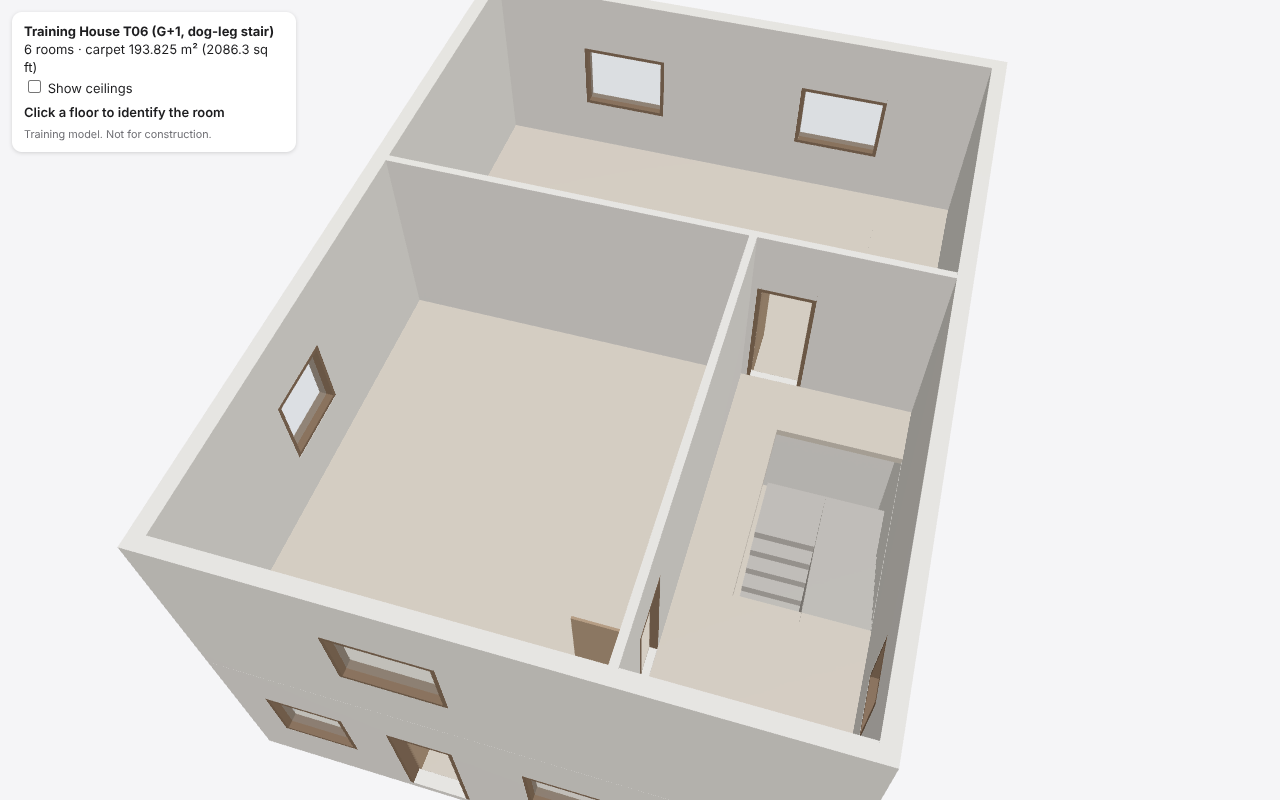
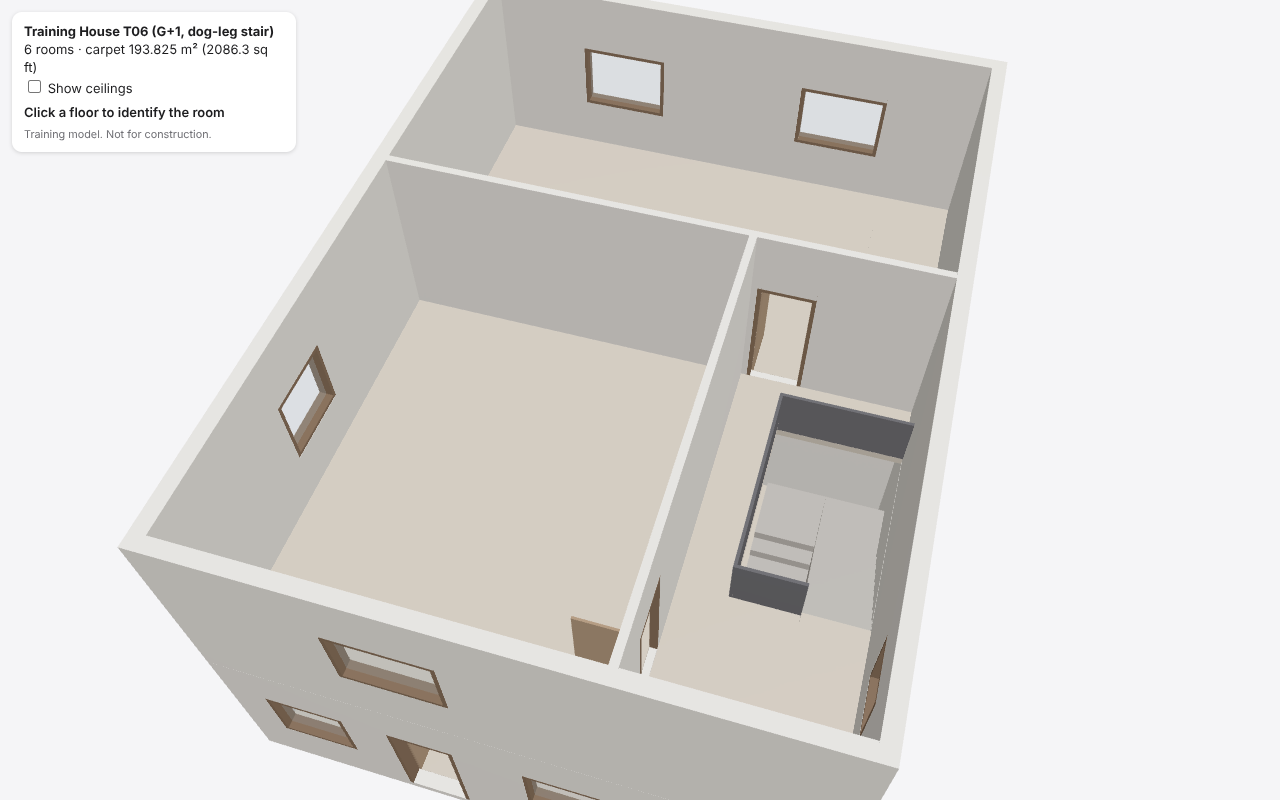
Guard rails around stair openings; walk tests check each guarded edge
A 50 mm x 0.90 m rail (training values) closes every edge of a stair
opening in the upper floor, except where a wall closes it and across the
top riser. Walk tests add a line at 0.5 m across each guarded edge
(T05 30/30, T06 34/34); removing the rail fails all of them. M_Guard in
GLB and FBX. 84 tests.

Claude-Session: https://claude.ai/code/session_01BXg1nWSkXAdbFx49JcxH2B

Changed region(s): [[0.5938, 0.4688, 0.7188, 0.5938], [0.5625, 0.5938, 0.6562, 0.7812]]

diff --git a/plan3d/walktests.py b/plan3d/walktests.py
@@ -11,6 +11,7 @@ points at the import, not at the tests.
 from __future__ import annotations
 
 import numpy as np
+from shapely.geometry import Point
 
 from . import stairs
 from .mesh3d import Part
@@ -19,6 +20,7 @@ from .model import Plan
 PROBE_M = 0.4            # how far into each room a probe starts and ends
 DOOR_PROBE_Z = 1.0       # chest height above finished floor
 WALL_PROBE_Z = 1.5
+GUARD_PROBE_Z = 0.5      # a person walking into the rail around a stair opening
 WALL_END_CLEAR = 0.3     # stay away from junctions
 OPENING_CLEAR = 0.15     # and from opening reveals
 CLEAR_HEIGHTS = (0.75, 1.0, 1.25)   # above floor, where shoulders and hips pass
@@ -58,6 +60,19 @@ def generate(plan: Plan, layouts: dict) -> list[dict]:
     for sg in sorted(stairs.build(plan).values(), key=lambda s: s.id):
         if sg.level not in layouts or sg.to_level not in layouts:
             continue
+        guard = stairs.guard_region(sg, layouts[sg.to_level])
+        ring = list(sg.footprint.exterior.coords)
+        for j, (p, q) in enumerate(zip(ring, ring[1:])):          # one line across each guarded edge
+            p, q = np.asarray(p), np.asarray(q)
+            m, d = (p + q) / 2, (q - p) / np.linalg.norm(q - p)
+            n = np.array([d[1], -d[0]])
+            if sg.footprint.contains(Point(m + n * 0.01)):
+                n = -n                                     # n points out of the opening
+            if guard.contains(Point(m + n * stairs.GUARD_THICKNESS / 2)):
+                z = sg.ffl_top + GUARD_PROBE_Z
+                tests.append({"name": f"guard:{sg.id}.{j + 1}", "kind": "guard",
+                              "start": [*(m + n * (stairs.GUARD_THICKNESS + 0.05)), z],
+                              "end": [*(m - n * 0.3), z], "expect_hit": True})
         flights = sg.flights
         for i, f in enumerate(flights):                # one line per flight, chest height above the steps
             z0 = sg.ffl + sg.riser * f.first

diff --git a/plan3d/stairs.py b/plan3d/stairs.py
@@ -25,6 +25,8 @@ APPROACH = 0.3           # where a person stands before the first riser / after 
 HEADROOM = 2.0           # clear height above every tread (Q22)
 MAX_RISER, MIN_GOING = 0.19, 0.25                 # training thresholds, not a code check
 BLONDEL = (0.55, 0.70)   # comfortable 2 x riser + going, metres
+GUARD_HEIGHT = 0.9       # guard rail around stair openings (training value, not a code check)
+GUARD_THICKNESS = 0.05
 
 
 @dataclass
@@ -206,3 +208,16 @@ def landing_depth(sg: StairGeom, region) -> float:
     parts = [g for g in getattr(inside, "geoms", [inside]) if g.length > 0]
     first = min(parts, key=lambda g: Point(sg.top).distance(g), default=None)
     return first.length if first is not None and Point(sg.top).distance(first) < 1e-6 else 0.0
+
+
+def guard_region(sg: StairGeom, up_layout) -> Polygon:
+    """Plan area of the guard rail around the stair's opening in the upper
+    floor: a GUARD_THICKNESS band just outside every edge of the opening,
+    except where a wall already closes it and across the top riser, where
+    people step on and off."""
+    band = sg.footprint.buffer(GUARD_THICKNESS, join_style="mitre").difference(sg.footprint)
+    a = np.array([-sg.top_u[1], sg.top_u[0]]) * sg.width / 2
+    t, out = sg.top, sg.top_u * (GUARD_THICKNESS * 2)
+    arrival = Polygon([t - a, t + a, t + a + out, t - a + out])
+    floor = unary_union(list(up_layout.room_regions.values()))
+    return band.difference(arrival).difference(up_layout.footprint).intersection(floor)

diff --git a/tests/test_stairs.py b/tests/test_stairs.py
@@ -169,3 +169,21 @@ def test_dogleg_needs_a_turn(t06):
     from plan3d.model import schema_errors
     del item(t06, "stairs", "S01")["turn"]
     assert any("turn" in e for e in schema_errors(t06))
+
+
+def test_stair_opening_is_guarded_except_where_people_step_off(t06):
+    from plan3d import walktests
+    plan = Plan(t06)
+    layouts = {lid: plan2d.build_layout(plan, lid) for lid in plan.levels}
+    parts = build_parts(plan, layouts)
+    guard = next(p for p in parts if p.name == "L01_GUARD_S01")
+    assert guard.solid.is_watertight
+    assert guard.solid.bounds[:, 2] == pytest.approx([3.15, 3.15 + stairs.GUARD_HEIGHT])
+    scene = walktests.Scene(parts)
+    z = 3.15 + 0.5
+    assert scene.first_hit_at([8.27, 2.7, z], [8.27, 3.3, z])[0] is None          # top of the second flight: open
+    assert scene.first_hit_at([7.27, 2.7, z], [7.27, 3.3, z])[0] == "L01_GUARD_S01"  # beside it: guarded
+    probes = [t for t in walktests.generate(plan, layouts) if t["kind"] == "guard"]
+    assert probes and all(r["ok"] for r in walktests.run(probes, parts))
+    unguarded = [p for p in parts if p.role != "guard"]
+    assert not any(r["ok"] for r in walktests.run(probes, unguarded))              # each probe needs the rail

diff --git a/plan3d/mesh3d.py b/plan3d/mesh3d.py
@@ -49,6 +49,7 @@ MATERIALS = {
     "glass":   {"baseColorFactor": [0.70, 0.82, 0.90, 0.30], "roughnessFactor": 0.05,
                 "alphaMode": "BLEND"},
     "stair":   {"baseColorFactor": [0.62, 0.60, 0.57, 1.0], "roughnessFactor": 0.7},
+    "guard":   {"baseColorFactor": [0.20, 0.20, 0.22, 1.0], "roughnessFactor": 0.4},
 }
 
 
@@ -147,6 +148,10 @@ def build_parts(plan: Plan, layouts: dict[str, LevelLayout]) -> list[Part]:
             if sg.level == level_id:
                 for suffix, lane in stairs.solids(sg):
                     parts.append(Part(f"{level_id}_STAIR_{sg.id}{suffix}", "stair", level_id, _to_trimesh(lane), sg.id))
+            if sg.to_level == level_id:
+                guard = _prism(stairs.guard_region(sg, lay), ffl, ffl + stairs.GUARD_HEIGHT)
+                if not guard.is_empty():
+                    parts.append(Part(f"{level_id}_GUARD_{sg.id}", "guard", level_id, _to_trimesh(guard), sg.id))
 
         details = next(iter(plan.details.values()), None)
         fw = details["frame_width"] if details else 0.0

diff --git a/plan3d/export_fbx.py b/plan3d/export_fbx.py
@@ -27,7 +27,8 @@ from .units import sqm_to_sqft
 UNREAL_DIR = Path(__file__).resolve().parents[1] / "unreal"
 UNREAL_SCRIPTS = ("import_plan3d.py", "walk_test.py")
 MATERIAL_NAMES = {"wall": "M_Wall", "floor": "M_Floor", "ceiling": "M_Ceiling", "glass": "M_Glass",
-                  "frame": "M_Frame", "door": "M_Door", "stair": "M_Stair"}
+                  "frame": "M_Frame", "door": "M_Door", "stair": "M_Stair",
+                  "guard": "M_Guard"}
 
 
 def bpy_available() -> bool:

diff --git a/docs/QUALITY_REPORTS.md b/docs/QUALITY_REPORTS.md
@@ -302,7 +302,7 @@ Carpet area 105.862 m² (1,139.5 sq ft) on a 120 m² built-up footprint.
 | FBX (Q17) | Pass, cm, `M_Stair` |
 | Single-level plans T01–T04 | GLB byte-identical to before the change |
 | Mutation tests | Level not on the one below → FAIL; flight into a wall → FAIL; landing into a wall → reported; 210 mm risers → WARN; stair removed → upper rooms unreachable (Q09 FAIL); a beam over the flight → Q22 FAIL |
-| Tests | 83 pass |
+| Tests | 84 pass |
 
 ### Dog-leg stairs (T06)
 | Check | Result |
@@ -311,6 +311,15 @@ Carpet area 105.862 m² (1,139.5 sq ft) on a 120 m² built-up footprint.
 | Geometry | Second flight starts at (8.27, 5.00) and ends beside the first flight's foot at (8.27, 3.00); footprint 6.000 m²; each lane watertight with the exact stepped volume plus half the landing |
 | Walk tests | 30/30, including a line up each flight |
 | Mutation tests | Second flight turned the wrong way → the opening cuts the lobby wall (Q21 FAIL); 0.8 m half landing → WARN; missing `turn` → schema error |
+
+### Guard rails around stair openings
+| Check | Result |
+|---|---|
+| Rail | 50 mm × 0.90 m (training values) just outside every edge of a stair opening in the upper floor, except where a wall closes it and across the top riser |
+| T06 | Rail on three sides; a line at 0.5 m across the second flight's top is clear, beside it hits `L01_GUARD_S01`. Walk tests 34/34 (4 guard lines) |
+| T05 | Walk tests 30/30 (2 guard lines) |
+| Mutation | Remove the rail → every guard line fails |
+| Not covered | No balustrade along the open side of a flight, or between dog-leg flights without a well |
 
 ### Defects found and fixed during development
 - Unioning the two dog-leg flights into one solid left 8 sliver faces and a

diff --git a/docs/TASK_TRACKER.md b/docs/TASK_TRACKER.md
@@ -18,7 +18,7 @@ verified without spending money.
 | Pri | ID | Task | Lead → Reviewer | AI / Human | Status |
 |---|---|---|---|---|---|
 | 0 | T-012 | **First Unreal import of T01**: run `import_plan3d.py` and check size, north, collision and materials (PLAN3D.md checklist) | AD-11 → AD-12 | AI via the founder's PC session (Remote Control + Python Remote Execution) | VERIFIED (QR-005, QR-007): import, size, north, PlayerStart, materials/collision, v2 frames/doors exact to 0.0 cm, walk test 26/26 in Unreal |
-| 1 | T-014 | Multi-level stacking (shared slabs, straight stairs, stair openings, Q21/Q22) and roof parapet | AD-13 → AD-05 | AI (parapet needs D-091) | Stacking, straight and dog-leg stairs IMPLEMENTED (QR-008, T05/T06 G+1); not yet in Unreal. Parapet BLOCKED on D-091; handrails/guards PLANNED |
+| 1 | T-014 | Multi-level stacking (shared slabs, straight stairs, stair openings, Q21/Q22) and roof parapet | AD-13 → AD-05 | AI (parapet needs D-091) | Stacking, straight and dog-leg stairs IMPLEMENTED (QR-008, T05/T06 G+1); not yet in Unreal. Parapet BLOCKED on D-091; guard rails around openings IMPLEMENTED; flight balustrades PLANNED |
 | 1 | T-015 | Unreal: sphere-sweep clear-width test (Q20) and T05 import | AD-11 → AD-12 | AI via PC session | BLOCKED: the PC session's safety check refuses to write scripts sent from this session; needs the founder's one-time approval |
 | 2 | T-002 | Web GLB optimization step (Draco/meshopt + KTX2, size budget) plus a headless load test | AD-18 → AD-34 | AI | PLANNED |
 | 3 | T-003 | Define target-device list and measure H01 on real phones (load time, FPS) | AD-34 → AD-33 | Human measures, AI analyses | PLANNED |

diff --git a/README.md b/README.md
@@ -16,7 +16,7 @@ All tested on fictional training plans only. See [docs/PLAN3D.md](docs/PLAN3D.md
 python3 -m venv .venv && .venv/bin/pip install -r requirements.txt
 .venv/bin/python -m plan3d build projects/t01/plan.json -o out/t01          # plan -> model
 .venv/bin/python -m plan3d read drawing.png -o drafts/x --known-width 12 --build   # drawing -> draft -> model
-.venv/bin/python -m pytest -q                                               # 83 tests
+.venv/bin/python -m pytest -q                                               # 84 tests
 .venv/bin/python -m bench.run                                               # reader benchmark
 .venv/bin/pip install -r requirements-fbx.txt                               # optional: Blender for FBX
 .venv/bin/python -m plan3d build projects/t01/plan.json -o out/t01 --fbx    # + Unreal bundle in out/t01/unreal
@@ -27,7 +27,7 @@ python3 -m venv .venv && .venv/bin/pip install -r requirements.txt
 | `plan3d/` | Generator: schema, 2D layout, 3D solids, QA, reports |
 | `projects/t01…t06/` | Fictional training plans (T03, T04 = reader holdouts; T05, T06 = two storeys) |
 | `bench/` | Renders plans as test drawings and scores the reader |
-| `tests/` | 83 tests: QA checks fail on their defects; reader hard cases; FBX; stairs |
+| `tests/` | 84 tests: QA checks fail on their defects; reader hard cases; FBX; stairs |
 | `unreal/` | Unreal Editor import and walk-test scripts (verified in UE 5.8) |
 | `viewer/` | three.js r186 viewer + headless-browser load check |
 | `docs/evidence/` | Saved QA evidence referenced by QUALITY_REPORTS.md |

diff --git a/docs/PLAN3D.md b/docs/PLAN3D.md
@@ -99,7 +99,9 @@ by `risers`; its footprint is cut out of the upper floor and the lower
 ceiling, and the top riser is the slab edge. Rooms on upper levels are
 reached through the stair (Q09). A dog-leg climbs half its risers (rounded
 up), crosses the half landing and climbs back beside the first flight; its
-whole footprint is opened in the floor above. See `projects/t05` (G+1,
+whole footprint is opened in the floor above. A 0.90 m guard rail
+(`GUARD`, `M_Guard`) closes every open edge of a stair opening except the
+top riser; walk tests check each guarded edge. See `projects/t05` (G+1,
 straight) and `projects/t06` (G+1, dog-leg).
 
 **Dimension check kinds:** `param` (a typed value must equal the register),
@@ -151,6 +153,7 @@ Builds are deterministic: the same plan gives a byte-identical GLB.
 ## Known limits (v0.1)
 
 See [KNOWN_LIMITATIONS.md](KNOWN_LIMITATIONS.md#plan3d-v01). In short:
-straight walls; straight and dog-leg stairs only, without handrails; no roof
+straight walls; straight and dog-leg stairs only; guard rails around stair openings but no
+flight balustrades; no roof
 parapet or furniture; one material per element type; plan input is typed
 by hand (no PDF/CAD reading yet).

diff --git a/docs/KNOWN_LIMITATIONS.md b/docs/KNOWN_LIMITATIONS.md
@@ -35,7 +35,7 @@ in this repo until the founder adopts it themselves.
 |---|---|
 | Stacked levels need matching outlines in the plan file | Each level is typed separately; levels must stack exactly (Q21). Tested on two fictional G+1 plans (T05, T06) only |
 | Straight and dog-leg stairs only, solid to the floor | No quarter-turn/L, winders, spiral stairs, open risers or nosings; space under the stair is filled; a dog-leg's whole footprint is opened in the floor above |
-| No handrails, balustrades or guard rails | Open edges of stair openings and the open side of a flight are unprotected in the model. Q21 does not check fall protection |
+| Guard rails only around stair openings (0.90 m, training value) | No handrail or balustrade along the open side of a flight or between dog-leg flights; no terrace or balcony parapets |
 | Stair thresholds (riser ≤ 190 mm, going ≥ 250 mm, 2R+G 550–700 mm) are training values | Not checked against NBC/UDCPR; WARN only |
 | Straight walls only | No curved walls or columns |
 | Plan input typed by hand | No PDF/DWG/image reading yet (T-006). Typing errors are caught only where the register checks them |

diff --git a/docs/evidence/QR-008/t06_qa_report.md b/docs/evidence/QR-008/t06_qa_report.md
@@ -53,15 +53,16 @@ Visualization model only. Not for construction. Automated checks are sanity chec
 
 ### Q13 No coplanar overlapping faces between parts (z-fighting)
 
-- [INFO] 123 face pair(s) where touching solids meet back to back (hidden, expected)
+- [INFO] 125 face pair(s) where touching solids meet back to back (hidden, expected)
 
 ### Q19 Walk tests: doors and arches passable, walls and glass blocking
 
-- [INFO] 30/30 probes as expected
+- [INFO] 34/34 probes as expected
 
 ### Q20 Clear walking width through doors and arches
 
-- [INFO] Clear widths: door:O01 0.845 m, door:O04 0.745 m, door:O05 0.745 m, door:O21 0.745 m, door:O22 0.745 m
+- [INFO] Clear widths: door:O01 0.845 m, door:O04 0.745 m, door:O05 0.745 m, door:O21 0.745 m, door:O22 0.575 m
+- [INFO] Unreal's DefaultPawn (0.70 m) cannot pass door:O22; use a walkthrough pawn of at most 0.57 m
 
 ### Q22 Stair headroom (2.0 m above every tread)
 

diff --git a/docs/evidence/QR-008/t05_qa_report.md b/docs/evidence/QR-008/t05_qa_report.md
@@ -53,11 +53,11 @@ Visualization model only. Not for construction. Automated checks are sanity chec
 
 ### Q13 No coplanar overlapping faces between parts (z-fighting)
 
-- [INFO] 117 face pair(s) where touching solids meet back to back (hidden, expected)
+- [INFO] 119 face pair(s) where touching solids meet back to back (hidden, expected)
 
 ### Q19 Walk tests: doors and arches passable, walls and glass blocking
 
-- [INFO] 28/28 probes as expected
+- [INFO] 30/30 probes as expected
 
 ### Q20 Clear walking width through doors and arches
 
@@ -65,7 +65,7 @@ Visualization model only. Not for construction. Automated checks are sanity chec
 
 ### Q22 Stair headroom (2.0 m above every tread)
 
-- [INFO] S01: 17 treads checked
+- [INFO] S01: 17 treads and landings checked
 
 ### Q17 FBX re-import matches what was built
 
